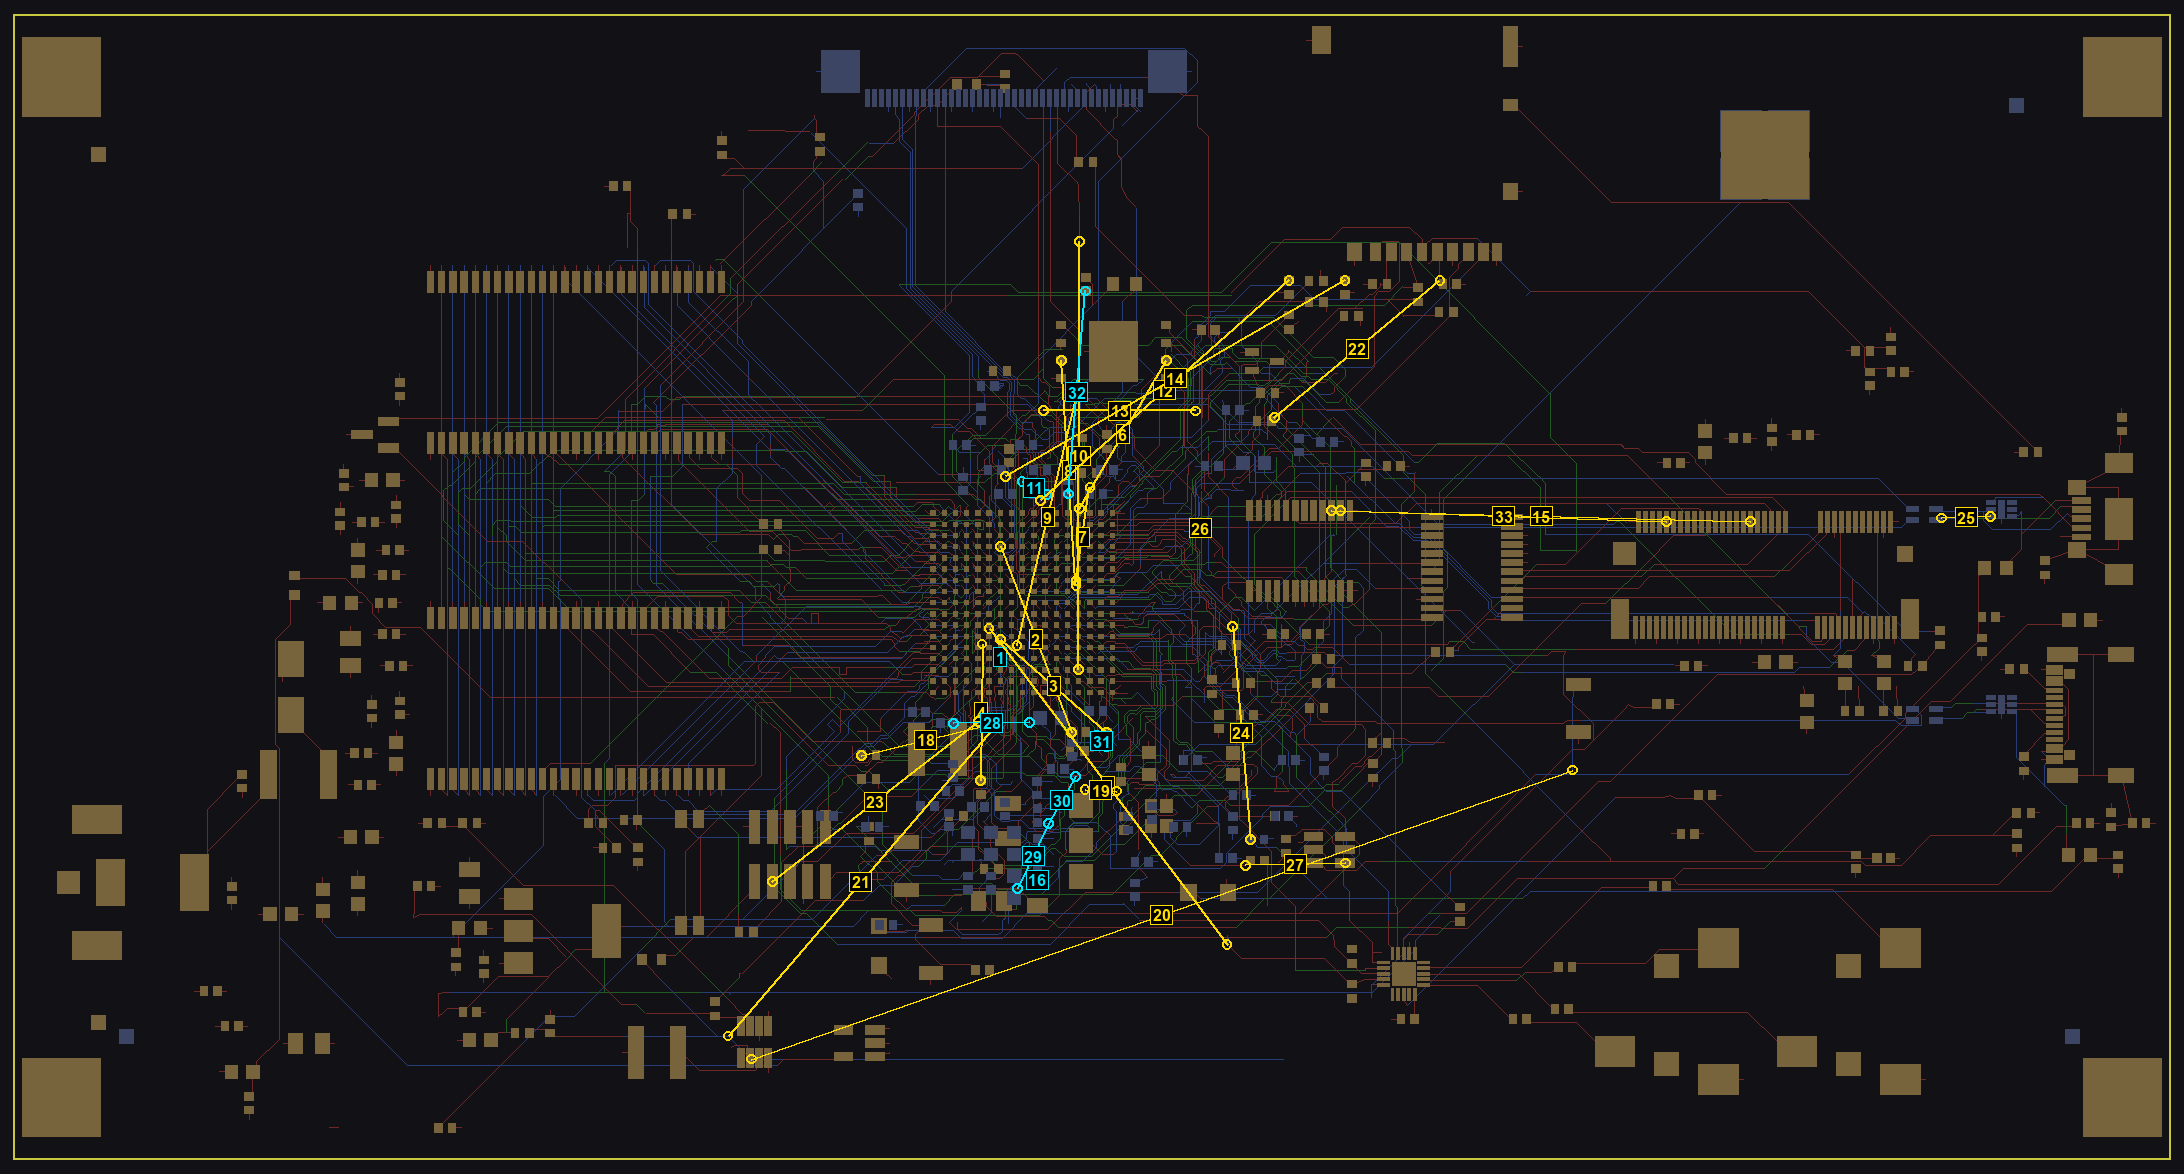
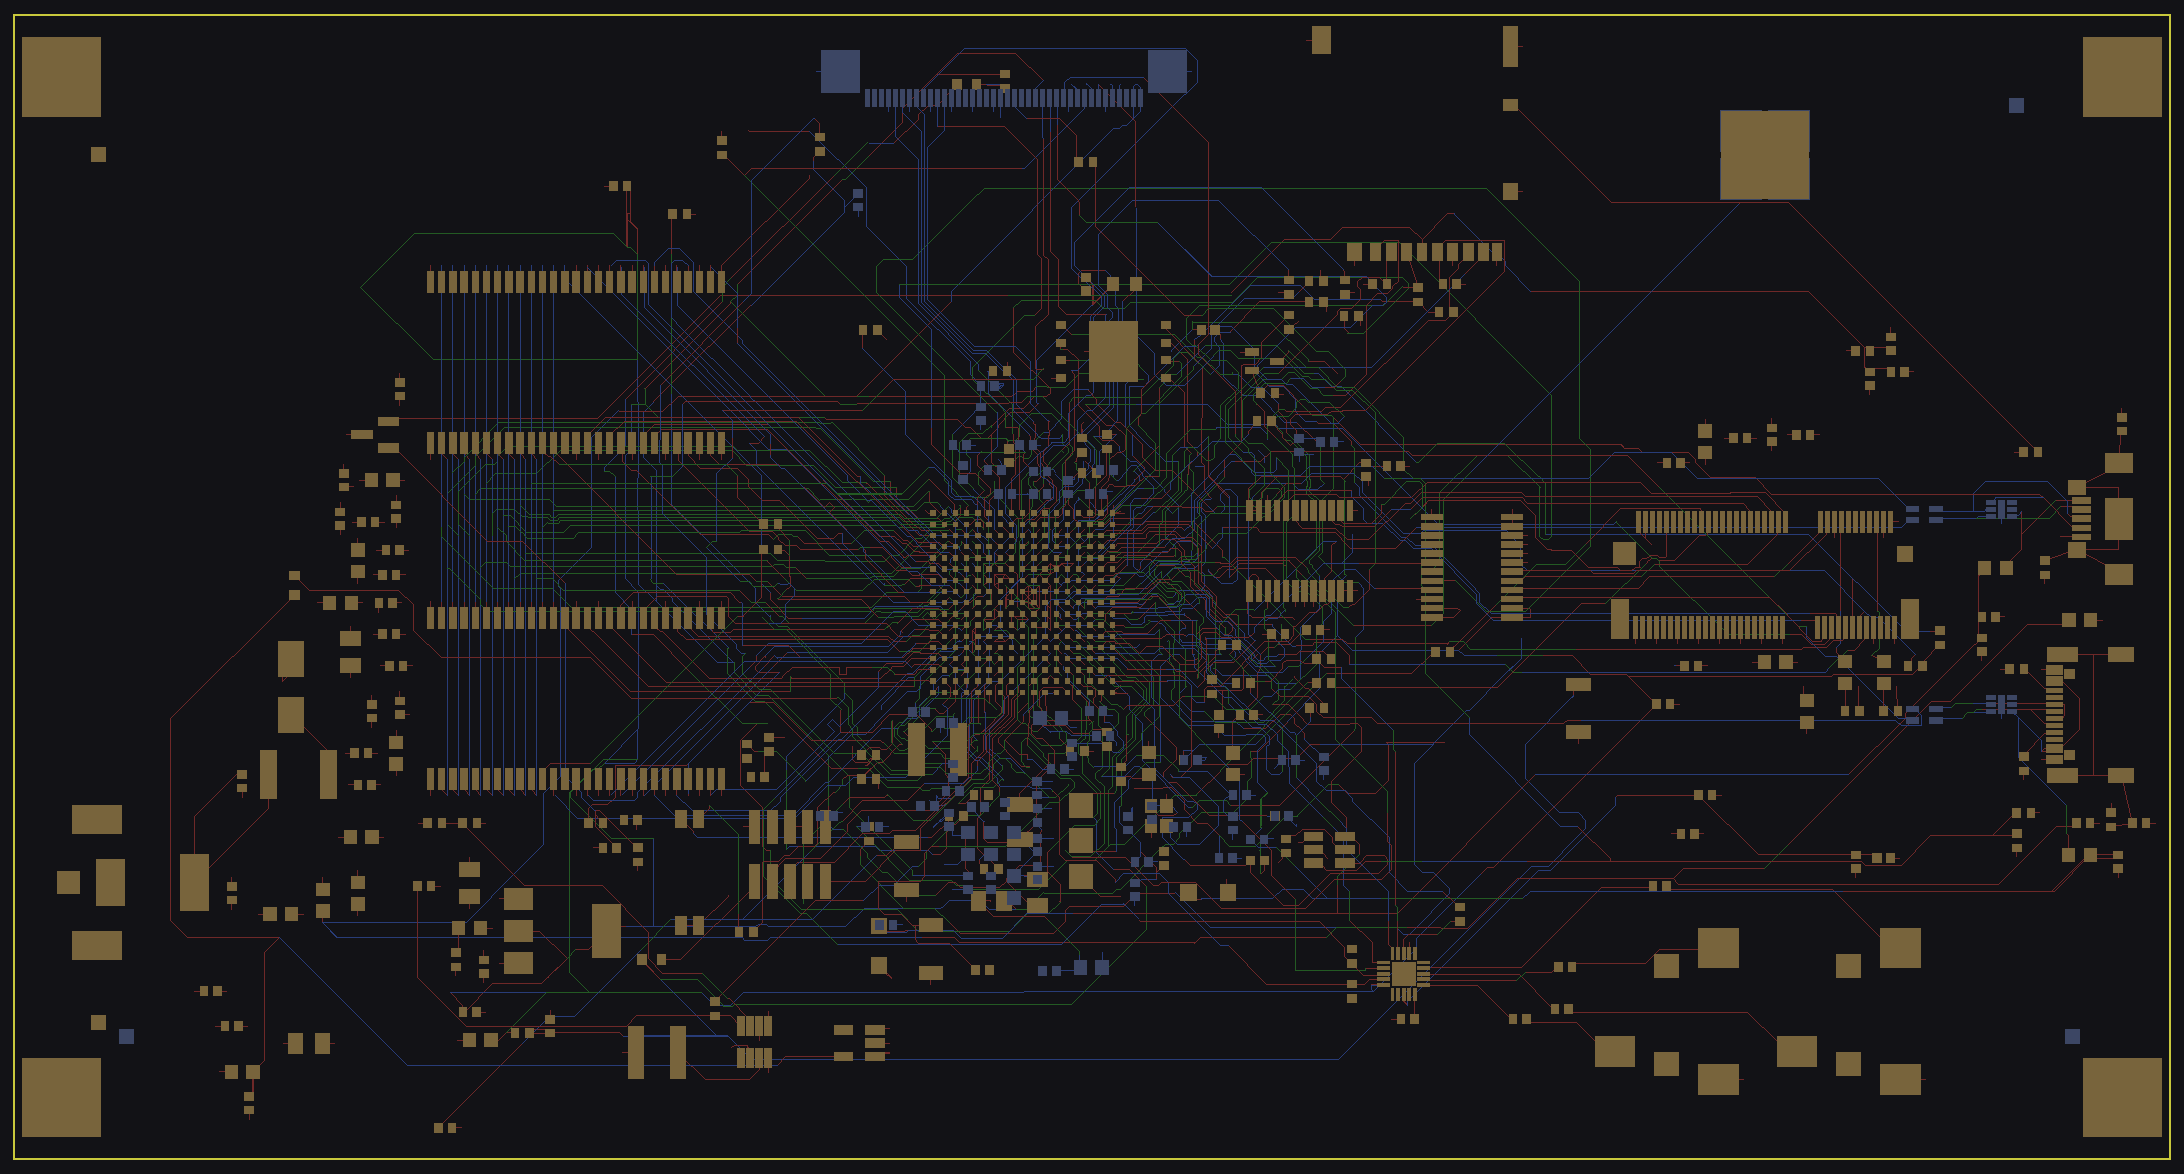
0.13 mm minimum track width: rule, netclasses and track sizes; 0 open
Every track on the board is now 0.13 mm or wider, so the constraints say so:
- Nosh.kicad_dru: new rule "Nosh: Trace Width" (min 0.13 mm), placed after
  the JLCPCB 0.09 mm rule so it is the one that applies.
- Nosh.kicad_pro: minimum track width 0.13; SDRAM track 0.1 -> 0.13;
  MIPI_100 track and diff pair 0.11 -> 0.13; predefined MIPI pair 0.13;
  0.1 / 0.11 removed from the track size list.
- handroute report regenerated (0 open) and its 0.1 mm wording updated.
- tools/widen_tracks.py: widens a net's tracks and backs out any segment
  that adds a DRC violation.

diff --git a/Kicad/tools/widen_tracks.py b/Kicad/tools/widen_tracks.py
@@ -1,0 +1,78 @@
+"""Widen a group of tracks wherever they fit, verified by KiCad's own DRC (run with KiCad's bundled python3).
+usage: widen_tracks.py NET_REGEX FROM_MM TO_MM [board.kicad_pcb]      default board: Kicad/Nosh.kicad_pcb
+       DRY=1 reports without writing the board; ONLY=file limits it to the track UUIDs listed in that file.
+Every segment whose net matches NET_REGEX (full match) and whose width is FROM_MM is set to TO_MM on a scratch copy;
+kicad-cli DRC (zones refilled, the project's rules) then runs repeatedly. A widened segment involved in a DRC error
+or a new connection_width / hole_to_hole warning that the original board does not have goes back to FROM_MM (of
+two widened segments in one violation, only one goes back per round); a new error without a widened segment in it
+(a starved thermal relief or a narrow pour neck where the wider track squeezes the zone) sends back the widened
+segments within 1 mm of it. Repeats until the scratch board has no new violations, then writes the board.
+Example: widen_tracks.py 'SEMC_.*' 0.1 0.13"""
+import sys, os, re, json, math, shutil, subprocess, tempfile, collections
+K = os.path.join(os.path.dirname(os.path.abspath(__file__)), '..') + '/'
+CLI = '/Applications/KiCad/KiCad.app/Contents/MacOS/kicad-cli'
+pat, w0, w1 = re.compile(sys.argv[1]), float(sys.argv[2]), float(sys.argv[3])
+SRC = sys.argv[4] if len(sys.argv) > 4 else K + 'Nosh.kicad_pcb'
+DRY = bool(os.environ.get('DRY'))
+ONLY = set(open(os.environ['ONLY']).read().split()) if os.environ.get('ONLY') else None
+text = open(SRC).read()
+SEG = re.compile(r'\n\t\(segment\n\t\t\(start ([-\d.]+) ([-\d.]+)\)\n\t\t\(end ([-\d.]+) ([-\d.]+)\)\n\t\t\(width ([\d.]+)\)\n\t\t\(layer "([^"]+)"\)\n\t\t\(net "([^"]*)"\)\n\t\t\(uuid "([^"]+)"\)\n\t\)')
+segs = {}
+for m in SEG.finditer(text):
+    x0, y0, x1, y1, w, layer, net, uid = m.groups()
+    if pat.fullmatch(net) and abs(float(w) - w0) < 1e-6 and (ONLY is None or uid in ONLY):
+        segs[uid] = dict(a=(float(x0), float(y0)), b=(float(x1), float(y1)), layer=layer, net=net, len=math.dist((float(x0), float(y0)), (float(x1), float(y1))))
+print('%d segments of %s at %.3f mm (%.0f mm of track)' % (len(segs), sys.argv[1], w0, sum(s['len'] for s in segs.values())), flush=True)
+def board_with(wide):
+    def sub(m):
+        if m.group(8) not in wide: return m.group(0)
+        return m.group(0).replace('(width %s)' % m.group(5), '(width %g)' % w1, 1)
+    return SEG.sub(sub, text)
+tmp = tempfile.mkdtemp()
+for ext in ('kicad_pro', 'kicad_dru'):
+    if os.path.exists(K + 'Nosh.' + ext): shutil.copy(K + 'Nosh.' + ext, tmp + '/Nosh.' + ext)
+def drc(board_text, guard=False):
+    open(tmp + '/Nosh.kicad_pcb', 'w').write(board_text)
+    subprocess.run([CLI, 'pcb', 'drc', '--format', 'json', '--refill-zones', '--severity-all', '-o', tmp + '/drc.json', tmp + '/Nosh.kicad_pcb'], check=True, capture_output=True)
+    d = json.load(open(tmp + '/drc.json'))
+    if guard and sum(1 for v in d['violations'] if v['type'] == 'clearance') > 300: sys.exit('the rules file did not load (hundreds of clearance errors): stopping')
+    return d
+WATCH = {'connection_width', 'hole_to_hole'}
+key = lambda v: (v['type'], tuple(sorted(i['description'] for i in v['items'])))
+relevant = lambda v: v['severity'] == 'error' or v['type'] in WATCH
+base = drc(text, guard=True); base_keys = collections.Counter(key(v) for v in base['violations'] if relevant(v)); base_open = len(base['unconnected_items'])
+print('baseline: %d errors, %d open' % (sum(1 for v in base['violations'] if v['severity'] == 'error'), base_open), flush=True)
+wide = set(segs)
+for rnd in range(1, 11):
+    d = drc(board_with(wide)); seen = collections.Counter(); back = set()
+    for v in d['violations']:
+        if not relevant(v): continue
+        k = key(v); seen[k] += 1
+        if seen[k] <= base_keys[k]: continue                       # the original board has this one too
+        ids = [i.get('uuid') for i in v['items'] if i.get('uuid') in wide]
+        if ids: back.add(sorted(ids, key=lambda u: segs[u]['len'])[0])   # the shorter one goes back
+        else:
+            for i in v['items']:
+                p = (i['pos']['x'], i['pos']['y'])
+                if p == (0.5, 0.5): continue                         # zones report the board origin
+                for u in wide:
+                    s = segs[u]; ax, ay = s['a']; bx, by = s['b']; dx, dy = bx - ax, by - ay; L2 = dx * dx + dy * dy
+                    t = 0 if L2 == 0 else max(0, min(1, ((p[0] - ax) * dx + (p[1] - ay) * dy) / L2))
+                    if math.dist(p, (ax + t * dx, ay + t * dy)) < 1.0: back.add(u)
+    opened = len(d['unconnected_items']) - base_open
+    print('round %d: %d widened, %d new violations -> %d back to %.3f mm%s' % (rnd, len(wide), sum(max(0, seen[k] - base_keys[k]) for k in seen), len(back), w0,
+          '' if opened <= 0 else '  (%d new opens!)' % opened), flush=True)
+    if not back and opened <= 0:
+        for v in d['violations']:                                   # new ones that no widened segment can explain:
+            k = key(v)                                              # usually the same spot reported as another pair
+            if relevant(v) and seen[k] > base_keys[k]: print('  left as is (not near a widened segment):', v['type'], [i['description'][:50] for i in v['items']])
+        break
+    if not back: sys.exit('new open connections without a widened segment to blame: stopping')
+    wide -= back
+else: sys.exit('did not settle in 10 rounds')
+kept = set(segs) - wide
+lay = lambda S: dict(collections.Counter(segs[u]['layer'] for u in S))
+print('result: %d segments widened to %.3f mm (%.0f mm, %s); %d stay at %.3f mm (%.0f mm, %s)' % (
+    len(wide), w1, sum(segs[u]['len'] for u in wide), lay(wide), len(kept), w0, sum(segs[u]['len'] for u in kept), lay(kept)))
+json.dump(dict(widened=sorted(wide), kept=sorted(kept)), open(tmp + '/result.json', 'w')); print('scratch:', tmp)
+if not DRY: open(SRC, 'w').write(board_with(wide)); print('written:', SRC)

diff --git a/Kicad/tools/handroute_list.py b/Kicad/tools/handroute_list.py
@@ -189,7 +189,7 @@ o = ['# Open connections to hand-route', '',
      'Balls are 0.8 mm pitch, A1 at (%.1f, %.1f), rows A–U top to bottom, columns 1–17 left to right. Coordinates are mm from the board origin (top-left, y down).' % ballpos('A1'),
      '', '- **Fan-out via** is the dog-bone via already on that ball: start there. "none" means the ball has no fan-out yet (the outer two rings escape on F.Cu).',
      "- **Other end** is where KiCad's ratsnest line lands (a pad, or the end of copper already routed on that net) and the pads it is part of.",
-     '- Inside the grid only 0.1 mm tracks fit between the fan-out vias; no tracks on GND1, PWR or GND2.', '']
+     '- Inside the grid only 0.13 mm tracks (the board minimum) fit between the fan-out vias; no tracks on GND1, PWR or GND2.', '']
 for side in ('inside', 'S', 'E', 'N', 'W'):
     rs = [r for r in rows if r['side'] == side]
     if not rs: continue
@@ -207,6 +207,6 @@ if others:
     for r in others:
         if r.get('note'): o += ['', '%d: %s.' % (r['id'], r['note'][0].upper() + r['note'][1:])]
     o.append('')
-o.append('⚡ = power net (route wider than 0.1 mm once outside the grid where there is room).')
+o.append('⚡ = power net (route wider than 0.13 mm once outside the grid where there is room).')
 open(OUT + 'bga_handroute.md', 'w').write('\n'.join(o) + '\n')
 print('%d BGA connections (%s), %d elsewhere, %d open in total -> %sbga_handroute.md, bga_open.png, board_open.png' % (len(rows), dict(collections.Counter(r['side'] for r in rows)), len(others), len(drc['unconnected_items']), OUT))

diff --git a/Kicad/handroute/bga_handroute.md b/Kicad/handroute/bga_handroute.md
@@ -1,69 +1,12 @@
 # Open connections to hand-route
 
-Generated by `tools/handroute_list.py` on 2026-10-15 from a KiCad DRC of the board with its zones refilled: **33 open connections** in total, 10 with one end at the U1 ball grid (1 power, 9 signal) and 23 elsewhere on the board.
+Generated by `tools/handroute_list.py` on 2026-10-27 from a KiCad DRC of the board with its zones refilled: **0 open connections** in total, 0 with one end at the U1 ball grid (0 power, 0 signal) and 0 elsewhere on the board.
 
-Numbers 1–10 match the labels in `bga_open.png` (label = the ball end; yellow = signal, cyan = power; the short bar points toward the other end). Every number is also in `board_open.png`, labelled at the middle of its airline.
+Numbers 1–0 match the labels in `bga_open.png` (label = the ball end; yellow = signal, cyan = power; the short bar points toward the other end). Every number is also in `board_open.png`, labelled at the middle of its airline.
 Balls are 0.8 mm pitch, A1 at (65.6, 35.6), rows A–U top to bottom, columns 1–17 left to right. Coordinates are mm from the board origin (top-left, y down).
 
 - **Fan-out via** is the dog-bone via already on that ball: start there. "none" means the ball has no fan-out yet (the outer two rings escape on F.Cu).
 - **Other end** is where KiCad's ratsnest line lands (a pad, or the end of copper already routed on that net) and the pads it is part of.
-- Inside the grid only 0.1 mm tracks fit between the fan-out vias; no tracks on GND1, PWR or GND2.
+- Inside the grid only 0.13 mm tracks (the board minimum) fit between the fan-out vias; no tracks on GND1, PWR or GND2.
 
-## Inside the grid: ball-to-ball links and balls not yet on their plane (1)
-
-| # | Net | Ball | Fan-out via | Other end | At (x, y), layer | Airline mm |
-|---|---|---|---|---|---|---|
-| 1 | +3V3 ⚡ | N5 | (68.40, 45.60) | U1 ball P7 | (70.40, 46.00) F.Cu | 0.2 |
-
-## Escaping south (4)
-
-| # | Net | Ball | Fan-out via | Other end | At (x, y), layer | Airline mm |
-|---|---|---|---|---|---|---|
-| 2 | BT_CFG9 | D7 | (70.00, 37.60) | R101.1 | (75.49, 51.25) F.Cu | 14.2 |
-| 3 | DCDC_DIG_SENSE | L7 | (70.00, 44.00) | R8.2 | (78.00, 51.24) F.Cu | 10.1 |
-| 4 | DCDC_ANA_SENSE | M6 | (69.20, 44.80) | R7.2 | (69.00, 54.69) F.Cu | 9.7 |
-| 5 | LPI2C5_SCL | N8 | (71.60, 45.60) | copper from R75.2, U15.19 | (86.60, 66.40) B.Cu | 28.2 |
-
-## Escaping north (5)
-
-| # | Net | Ball | Fan-out via | Other end | At (x, y), layer | Airline mm |
-|---|---|---|---|---|---|---|
-| 6 | FLEXSPI_A_CLK | G14 | (76.40, 40.00) | U2.6 | (82.25, 24.68) F.Cu | 12.2 |
-| 7 | SD_DAT1 | H13 | (75.60, 40.80) | copper from J5.8 | (76.80, 33.80) SIG | 7.1 |
-| 8 | FLEXSPI_A_D2 | H14 | (76.40, 40.80) | U2.3 | (74.75, 24.68) F.Cu | 15.8 |
-| 9 | LPI2C5_SCL | N8 | (71.60, 45.60) | copper from J7.27 | (76.00, 26.75) F.Cu | 18.8 |
-| 10 | CTP_RST_B | R14 | (76.40, 47.20) | copper from J7.28 | (76.05, 16.20) SIG | 30.6 |
-
-## Elsewhere on the board (23)
-
-Neither end is at the ball grid. "Copper from" means the end is a track or via already joined to those pads.
-
-| # | Net | From | At (x, y), layer | To | At (x, y), layer | Airline mm |
-|---|---|---|---|---|---|---|
-| 11 | +3V3 ⚡ | copper from C130.1, C23.1, C24.1, C25.1 … | (71.95, 33.35) B.Cu | C39.1 | (73.73, 34.25) B.Cu | 2.0 |
-| 12 | BT_CFG1 | R93.1 | (91.02, 18.96) F.Cu | copper from U1.E12 | (73.25, 34.70) B.Cu | 23.7 |
-| 13 | BT_CFG10 | copper from R102.1 | (84.35, 28.30) B.Cu | copper from U1.C7 | (73.50, 28.25) F.Cu | 10.9 |
-| 14 | BT_CFG6 | R98.1 | (95.02, 18.96) F.Cu | copper from U1.E8 | (70.75, 33.00) B.Cu | 28.0 |
-| 15 | BT_DEV_WAKE_1V8 | U11.15 | (94.07, 35.42) F.Cu | J6.42 | (124.00, 36.23) F.Cu | 29.9 |
-| 16 | DCDC_DIG ⚡ | NT1.1 | (73.05, 61.79) F.Cu | copper from C30.1, C31.1, C32.1, C33.1 … | (73.05, 61.78) B.Cu | 0.0 |
-| 17 | GND ⚡ | GND_GND2 pour (GND2) | – | GND_F pour (F.Cu) | – | – |
-| 18 | JTAG_MOD | R13.1 | (60.49, 52.90) F.Cu | copper from U1.U6 | (69.65, 50.70) F.Cu | 9.4 |
-| 19 | LPUART1_RXD | copper from J11.3 | (76.45, 55.35) SIG | copper from U1.M15 | (78.69, 55.45) SIG | 2.2 |
-| 20 | POR_B | copper from C55.1, D1.2, R9.2 | (52.60, 74.60) B.Cu | copper from SW1.1 | (111.25, 53.95) B.Cu | 62.2 |
-| 21 | POR_B | copper from U1.T10 | (69.90, 50.95) F.Cu | copper from C55.1, D1.2, R9.2 | (50.95, 72.95) B.Cu | 29.0 |
-| 22 | SD_CLK_C | copper from R56.2 | (90.00, 28.75) F.Cu | copper from C115.1, J5.5 | (101.80, 19.00) F.Cu | 15.3 |
-| 23 | TDI | J1.8 | (54.11, 61.91) F.Cu | copper from U1.U5 | (68.85, 50.50) F.Cu | 18.6 |
-| 24 | USB1_VBUS | copper from U1.D17 | (86.96, 43.69) F.Cu | C51.1 | (88.28, 58.91) B.Cu | 15.3 |
-| 25 | USB2_CON_DN | U4.1 | (141.14, 35.85) B.Cu | copper from J2.2, L3.4 | (137.65, 35.95) B.Cu | 3.5 |
-| 26 | USB2_DN | copper from L3.3 | (84.90, 36.85) SIG | copper from U1.C16 | (84.48, 36.50) F.Cu | 0.5 |
-| 27 | USB_OTG2_OC | U3.4 | (95.03, 60.59) F.Cu | copper from R24.2, U1.N13 | (87.93, 60.75) F.Cu | 7.1 |
-| 28 | VDD_LPSR_DIG ⚡ | copper from U1.P11 | (72.50, 50.55) SIG | C7.1 | (67.08, 50.60) B.Cu | 5.4 |
-| 29 | VDD_SOC_IN ⚡ | copper from C19.1 | (73.86, 57.80) B.Cu | copper from C20.1, NT1.2 | (71.65, 62.40) F.Cu | 5.1 |
-| 30 | VDD_SOC_IN ⚡ | copper from C15.1, C16.1, C18.1, C21.1 … | (75.75, 54.40) B.Cu | copper from C19.1 | (73.86, 57.80) via | 3.9 |
-| 31 | VDD_SOC_IN ⚡ | R8.1 | (78.00, 52.26) F.Cu | C17.1 | (77.27, 51.50) B.Cu | 1.1 |
-| 32 | VDD_USB_1P8 ⚡ | C47.1 | (75.25, 34.23) B.Cu | FB3.2 | (76.50, 19.73) F.Cu | 14.5 |
-| 33 | WL_DEV_WAKE_1V8 | U11.14 | (94.72, 35.42) F.Cu | J6.66 | (118.00, 36.23) F.Cu | 23.3 |
-
-17: Via at (67.60, 37.60) (ball D4 fan-out) reaches only a scrap of GND1 and GND2: the vias around it cut it off from the plane.
-
-⚡ = power net (route wider than 0.1 mm once outside the grid where there is room).
+⚡ = power net (route wider than 0.13 mm once outside the grid where there is room).
